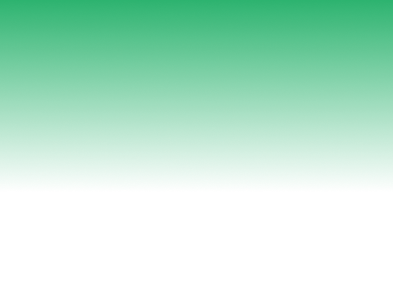
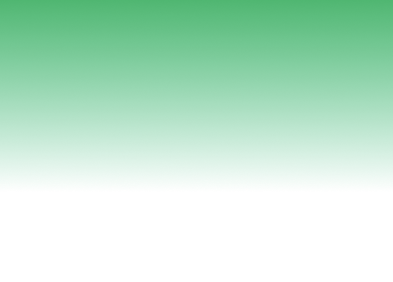
color background

Changed region(s): [[0.0, 0.0, 1.0, 0.1135]]

diff --git a/script.js b/script.js
@@ -12,6 +12,7 @@ let shadow_color_nein;
 let current_part_questions;
 let titel_color;
 let finish_background_color;
+let background_color;
 let text_color;
 let question;
 let color_name
@@ -264,6 +265,7 @@ function show_text(question, kid, papa) {
 function get_part_color() {
     switch (part) {
         case 1:
+            background_color = '#F2EFE0';
             titel_color = '#503A00';
             current_part_color = '#FFC300';      
             text_color = '#503A00';
@@ -277,9 +279,11 @@ function get_part_color() {
             document.getElementById('img3b').src = 'yellow3b.png';
             document.getElementById('img4').src = 'yellow4.png';
             document.getElementById('img5').src = 'yellow5.png';
-            finish_background_color = '#FFCE00';
+            document.getElementById('img_finish').src = 'finish/yellow.png';
+            finish_background_color = '#FCBC05';
             break;
         case 2:
+            background_color = '#E2EFF3';
             titel_color = '#002E50';
             current_part_color = '#33A9FF';  
             text_color = '#002E50';
@@ -293,10 +297,12 @@ function get_part_color() {
             document.getElementById('img3b').src = 'blue3b.png';
             document.getElementById('img4').src = 'blue4.png';
             document.getElementById('img5').src = 'blue5.png';
-            finish_background_color = '#33A9FFE5';
+            document.getElementById('img_finish').src = 'finish/blue.png';
+            finish_background_color = '#33A9FF';
 
             break;
         case 3:
+            background_color = '#F2E6E6';
             titel_color = '#500000';
             current_part_color = '#FF3333';  
             text_color = '#500000';
@@ -310,10 +316,12 @@ function get_part_color() {
             document.getElementById('img3b').src = 'red3b.png';
             document.getElementById('img4').src = 'red4.png';
             document.getElementById('img5').src = 'red5.png';
-            finish_background_color = '#FF3333CC';
+            document.getElementById('img_finish').src = 'finish/red.png';
+            finish_background_color = '#E74639';
 
             break;
         case 4:
+            background_color = '#EAF1EA';
             titel_color = '#012D17';
             current_part_color = '#00A351';                
             text_color = '#012D17';
@@ -327,10 +335,12 @@ function get_part_color() {
             document.getElementById('img3b').src = 'green3b.png';
             document.getElementById('img4').src = 'green4.png';
             document.getElementById('img5').src = 'green5.png';
-            finish_background_color = '#00A854E5';
+            document.getElementById('img_finish').src = 'finish/Green.png';
+            finish_background_color = '#34A854';
 
             break;        
         case 5:
+            background_color = '#F1EAF1';
             titel_color = '#29002F';
             current_part_color = '#770088';               
             text_color = '#29002F';
@@ -344,10 +354,12 @@ function get_part_color() {
             document.getElementById('img3b').src = 'lila3b.png';
             document.getElementById('img4').src = 'lila4.png';
             document.getElementById('img5').src = 'lila5.png';
-            finish_background_color = '#77008899';
+            document.getElementById('img_finish').src = 'finish/Lila.png';
+            finish_background_color = '#770088B2';
 
             break;
         case 6:
+            background_color = '#F2ECE6';
             titel_color = '#4F2400';
             current_part_color = '#FF7400';            
             text_color = '#4F2400';
@@ -361,7 +373,8 @@ function get_part_color() {
             document.getElementById('img3b').src = 'orange3b.png';
             document.getElementById('img4').src = 'orange4.png';
             document.getElementById('img5').src = 'orange5.png';
-            finish_background_color = '#FF7400E5';
+            document.getElementById('img_finish').src = 'finish/orange.png';
+            finish_background_color = '#FF7400';
             break;
         // 添加更多的case语句
         default:
@@ -548,11 +561,12 @@ function finish_part() {
     if (score>1) {
         part_passed++;
         document.getElementById('feedback').textContent = "P"+part+", Q"+(currentPartQuestionIndex+1)+", TQ"+currentQuestionIndex+", passed :"+part_passed;
-        document.getElementById('continue_text').style.color = text_color;
+        document.getElementById('continue_text').style.color = background_color;
         document.getElementById('continue_text').style.display = 'block';
         document.getElementById('continue_text').textContent="Herzlichen Glückwunsch\nzur bestandenen Runde "+part+"\nund zum Erhalt von \n"+color_name+" im Regenbogen!";
         score=0;
-        show_score();
+        document.getElementById('score').style.display = 'none';
+        document.getElementById('img_finish').style.display = 'block';
         document.body.style.backgroundColor = finish_background_color;
         if (part_passed===6){
             setTimeout(showResults, 2000);
@@ -565,6 +579,7 @@ function start_part() {
     current_part_questions=all_questions[part-1];
     get_part_color();
     show_score();
+    document.body.style.backgroundColor = background_color;
     document.getElementById('skip').style.display = 'none';
     currentQuestionIndex++;
     document.getElementById('part2_text').style.display = 'none';
@@ -580,6 +595,8 @@ function next_part() {
     currentPartQuestionIndex=0;
     document.body.style.backgroundColor = '#FFFFFF';
     document.getElementById('continue_text').style.display = 'none';   
+    document.getElementById('img_finish').style.display = 'none';
+
     if(currentQuestionIndex===part1Questions.length-1) {
         document.getElementById('titels').style.display = 'none';
         document.getElementById('score').style.display = 'none';       
@@ -669,7 +686,8 @@ function nextQuestion() {
 function showResults() {
     document.body.style.backgroundColor = "#F6F6F6";
     document.getElementById('continue_text').style.display = 'none';       
-    document.getElementById('score').style.display = 'none';       
+    document.getElementById('score').style.display = 'none';     
+    document.getElementById('img_finish').style.display = 'none';  
     document.getElementById('part2-answers').style.display = 'none';
     show_full_text(end_text.pass,showResults_passed2); 
 }

diff --git a/jiashu/script.js b/jiashu/script.js
@@ -3,8 +3,9 @@
 
 
 //document.getElementById('text').innerHTML = text;
-let part2_px=2300;
-let part3_px=4500;
+let part1_px=2300;
+let part2_px=4500;
+let part3_px=6800;
 let end_px=7597;
 
 
@@ -26,7 +27,7 @@ window.addEventListener('scroll', function() {
     document.getElementById('feedback').textContent = scrollPosition+'/'+windowHeight;
 
     // 根据滚动的高度改变背景图
-    if (scrollPosition < part2_px) {
+    if (scrollPosition < part1_px) {
         document.getElementById('img1').style.display = 'block';
         document.getElementById('img2').style.display = 'none';
         document.getElementById('img3').style.display = 'none';
@@ -35,7 +36,7 @@ window.addEventListener('scroll', function() {
 
 
 
-    } else if (scrollPosition >= part2_px && scrollPosition < part3_px) {
+    } else if (scrollPosition >= part1_px && scrollPosition < part2_px) {
         document.getElementById('img1').style.display = 'block';
         document.getElementById('img2').style.display = 'block';
         document.getElementById('img3').style.display = 'none';
@@ -45,7 +46,7 @@ window.addEventListener('scroll', function() {
 
 
     
-    } else if (scrollPosition >= part3_px&& scrollPosition < end_px) {
+    } else if (scrollPosition >= part2_px&& scrollPosition < part3_px) {
         document.getElementById('img1').style.display = 'block';
         document.getElementById('img2').style.display = 'block';
         document.getElementById('img3').style.display = 'block';

diff --git a/index.html b/index.html
@@ -11,8 +11,8 @@
     <div id="question"></div>
     <div id="part2_text" style="display:none;"></div>
     <div id="part1-answers">
-        <button id="buttonJa" onclick="submitAnswer(true)">Ja</button>
-        <button id="buttonNein" onclick="submitAnswer(false)">Nein</button>
+        <button id="buttonJa" onclick="submitAnswer(true)">JA</button>
+        <button id="buttonNein" onclick="submitAnswer(false)">NEIN</button>
     </div>
     <div id="part2-answers" style="display:none;">
         <div id="part2_button" >
@@ -33,7 +33,9 @@
         <img src="yellow3b.png" id="img3b" style="position: absolute; top: 152px;left:0;z-index:3;display:none;">
         <img src="yellow4.png" id="img4" style="position: absolute; top: 0px;left:0;z-index:2;display:none;">
         <img src="yellow5.png" id="img5" style="position: absolute; top: 0px;left:0;z-index:1;display:none;">
-
+    </div>
+    <div id="finish_bow">
+        <img src="finish/yellow.png" id="img_finish" style="position: absolute; top: 382px;left:0;z-index:5;display: none;">
     </div>
     <div id="feedback" style="position: absolute;top:0px;left:30px;width:200px;height:20px;z-index:6;font-size:12px;display:block;">part 1, Q1, score: 0</div>
     <div id="continue_text"></div>

diff --git a/jiashu/index.html b/jiashu/index.html
@@ -8,7 +8,7 @@
 <body >
     <img src="arrow.png" id="quit" onclick="location.href = '../start_page.html';">
     <div id="top_bar"></div>
-    <div id="feedback" style="position: fixed;top:0px;left:150px;width:50px;height:20px;z-index:6;font-size:15px;display:block;">0/0</div>
+    <div id="feedback" style="position: fixed;top:0px;left:150px;width:50px;height:20px;z-index:8;font-size:15px;display:block;">0/0</div>
     <div id="part_selection"></div>
         <div id="part_button" style="display:block;" >
             <button id="part1_button" onclick="click_scroll('1')">part1</button>
@@ -25,7 +25,7 @@
         <img src="yellow5.png" id="img5" style="position: fixed; top: 0px;left:0;z-index:1;">
     </div>
     <div id="target">   
-        <div id="target1" style="position: absolute;top:390px; height: 100px;"></div>
+        <div id="target1" style="position: absolute;top:1px; height: 100px;"></div>
         <div id="target2" style="position: absolute;top:2837px; height: 100px;"></div>
         <div id="target3" style="position: absolute;top:5060px; height: 100px;"></div>
     </div>
